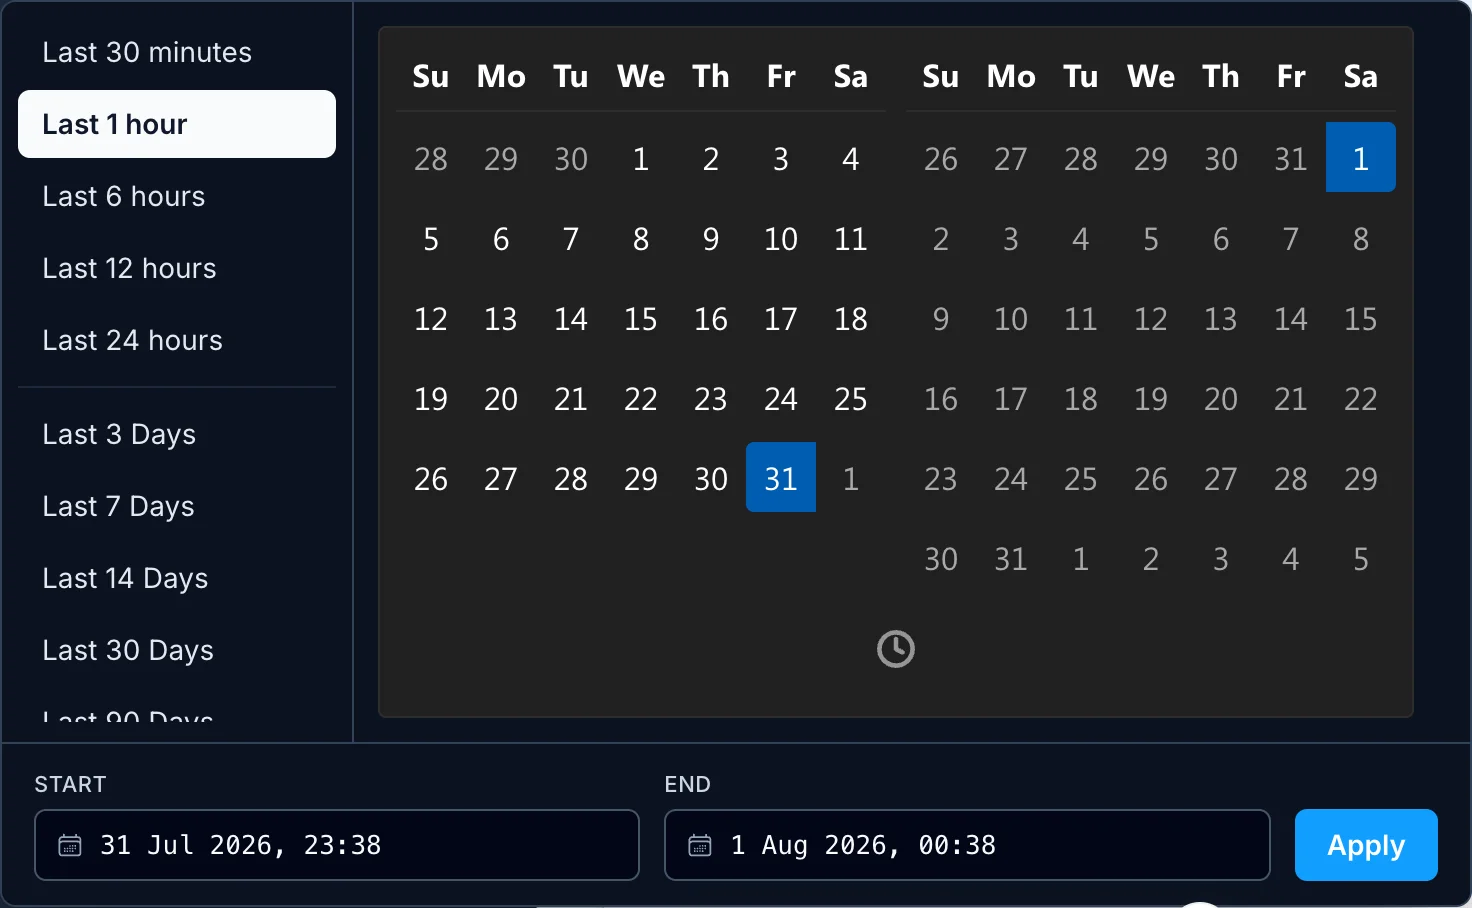
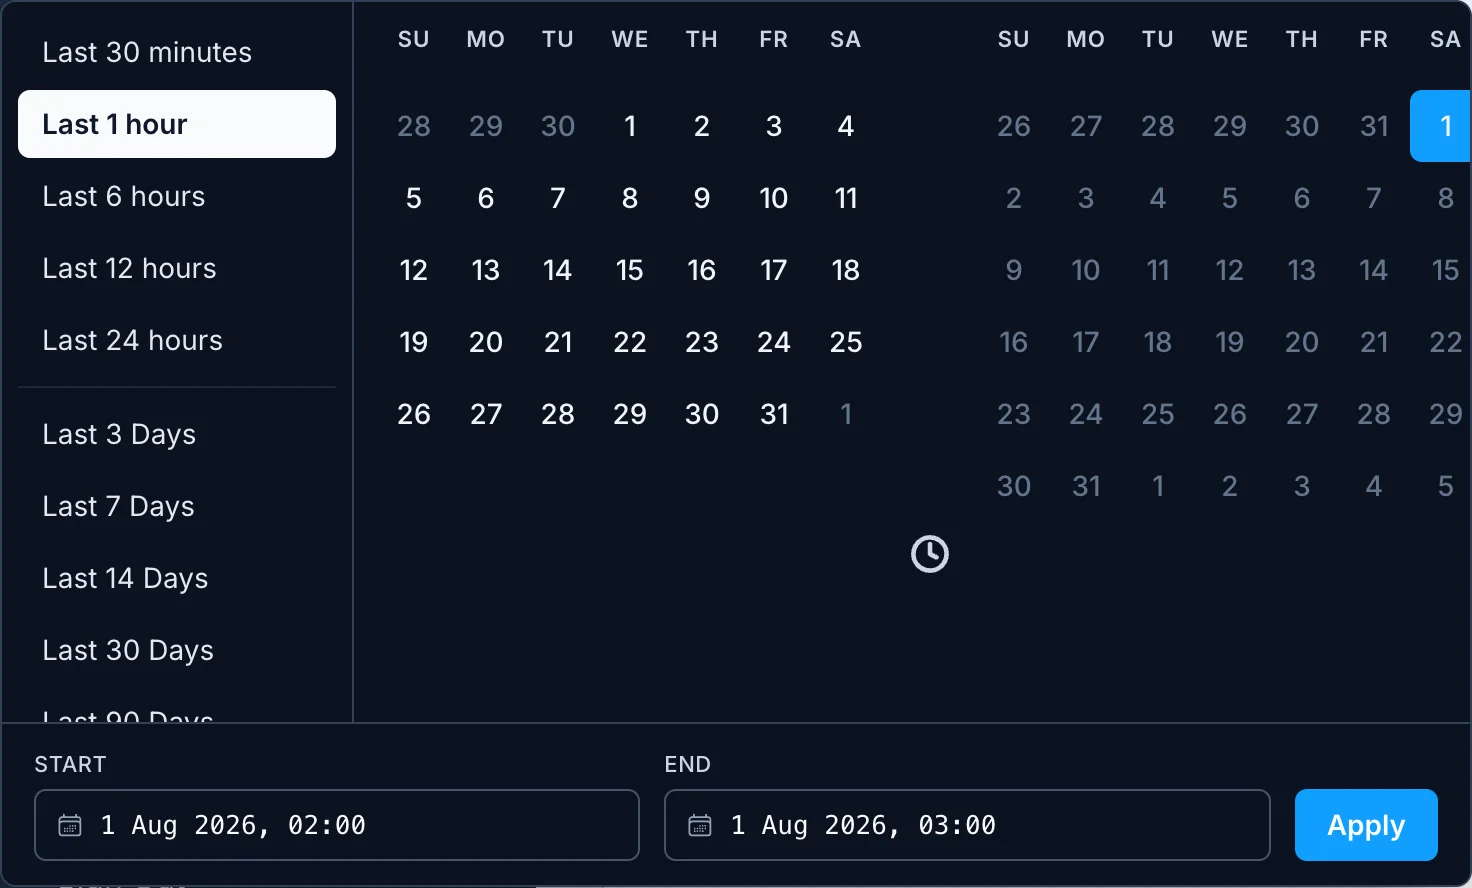
fix(ui): flush date picker calendar into one dark surface
Remove the nested VueDatePicker panel look so the calendar sits on the same popover background with no floating card margin.

diff --git a/src/components/DateRangePicker.vue b/src/components/DateRangePicker.vue
@@ -381,7 +381,7 @@ function presetButtonClass(active: boolean, disabled: boolean) {
             </div>
           </div>
 
-          <div class="date-range-calendar min-w-0 flex-1 p-2 md:p-3">
+          <div class="date-range-calendar min-w-0 flex-1">
             <VueDatePicker
               :key="isDark ? 'dark' : 'light'"
               :model-value="pickerRange"
@@ -435,7 +435,7 @@ function presetButtonClass(active: boolean, disabled: boolean) {
 </template>
 
 <style scoped>
-/* Shared surface tokens — contrast first (WCAG AA). One surface in dark mode. */
+/* Shared surface tokens — contrast first (WCAG AA). One flat surface; no nested calendar card. */
 .date-range-trigger[data-capgo-surface='light'],
 .date-range-popover[data-capgo-surface='light'] {
   --drp-bg: #ffffff;
@@ -475,7 +475,7 @@ function presetButtonClass(active: boolean, disabled: boolean) {
   --drp-preset-hover: #1e293b;
   --drp-preset-active-bg: #f8fafc;
   --drp-preset-active-text: #0f172a;
-  --drp-field-bg: #020617;
+  --drp-field-bg: #0b1220;
   --drp-field-border: #475569;
   --drp-shadow: 0 16px 48px -12px rgb(0 0 0 / 0.65);
   --drp-cal-text: #f1f5f9;
@@ -485,7 +485,7 @@ function presetButtonClass(active: boolean, disabled: boolean) {
   --drp-cal-icon: #cbd5e1;
   --drp-cal-between: rgb(17 158 255 / 0.28);
   --drp-cal-between-text: #f8fafc;
-  --drp-cal-input-bg: #020617;
+  --drp-cal-input-bg: #0b1220;
 }
 
 .date-range-trigger {
@@ -571,72 +571,99 @@ function presetButtonClass(active: boolean, disabled: boolean) {
 }
 
 .date-range-calendar {
+  /* Single surface: calendar paints on the popover bg, no nested card. */
   background: var(--drp-bg) !important;
+  padding: 0.5rem 0.75rem 0.25rem;
 }
 
-.date-range-calendar :deep(.dp__main) {
+.date-range-calendar :deep(.dp__main),
+.date-range-calendar :deep(.dp--menu),
+.date-range-calendar :deep(.dp__menu) {
   font-family: inherit;
-  background: transparent !important;
+  width: 100%;
+  min-width: 0 !important;
+  border-radius: 0 !important;
+  background: var(--drp-bg) !important;
   color: var(--drp-cal-text) !important;
+  box-shadow: none !important;
+  border: none !important;
 }
 
 .date-range-calendar :deep(.dp__theme_light),
-.date-range-calendar :deep(.dp__theme_dark) {
-  --dp-background-color: transparent;
+.date-range-calendar :deep(.dp__theme_dark),
+.date-range-calendar :deep(.dp--theme-light),
+.date-range-calendar :deep(.dp--theme-dark) {
+  /* Match popover exactly — never the library dark #212121 panel. */
+  --dp-background-color: var(--drp-bg);
   --dp-text-color: var(--drp-cal-text);
   --dp-hover-color: var(--drp-cal-hover);
   --dp-hover-text-color: var(--drp-cal-text);
   --dp-hover-icon-color: var(--drp-cal-icon);
   --dp-primary-color: var(--color-azure-500);
   --dp-primary-text-color: #ffffff;
-  --dp-secondary-color: var(--drp-border);
+  --dp-secondary-color: var(--drp-cal-muted);
   --dp-border-color: transparent;
   --dp-menu-border-color: transparent;
   --dp-border-color-hover: transparent;
+  --dp-border-color-focus: transparent;
   --dp-disabled-color: transparent;
   --dp-disabled-color-text: var(--drp-cal-muted);
-  --dp-scroll-bar-background: transparent;
+  --dp-scroll-bar-background: var(--drp-bg);
   --dp-scroll-bar-color: var(--drp-border);
   --dp-success-color: var(--color-azure-500);
   --dp-success-color-disabled: var(--drp-cal-muted);
   --dp-icon-color: var(--drp-cal-icon);
   --dp-danger-color: #f87171;
+  --dp-tooltip-color: var(--drp-bg);
   --dp-highlight-color: var(--drp-cal-between);
   --dp-range-between-dates-background-color: var(--drp-cal-between);
   --dp-range-between-dates-text-color: var(--drp-cal-between-text);
+  --dp-range-between-border-color: transparent;
   --dp-range-between-border-radius: 0;
+  --dp-menu-padding: 0;
+  --dp-calendar-wrap-padding: 0;
+  --dp-multi-calendars-spacing: 0.75rem;
+  --dp-row-margin: 0;
   --dp-cell-size: 36px;
   --dp-cell-padding: 2px;
-  --dp-row-margin: 0;
   --dp-month-year-row-height: 36px;
   --dp-month-year-row-button-size: 32px;
   --dp-button-height: 32px;
   --dp-font-size: 0.875rem;
+  --dp-border-radius: 0;
 }
 
 .date-range-calendar :deep(.dp__menu),
+.date-range-calendar :deep(.dp--menu),
 .date-range-calendar :deep(.dp__menu_inner),
+.date-range-calendar :deep(.dp--menu-inner),
 .date-range-calendar :deep(.dp__instance_calendar),
+.date-range-calendar :deep(.dp--instance-calendar),
 .date-range-calendar :deep(.dp__calendar),
+.date-range-calendar :deep(.dp--calendar),
 .date-range-calendar :deep(.dp__calendar_wrap),
 .date-range-calendar :deep(.dp__calendar_header),
+.date-range-calendar :deep(.dp--calendar-header),
 .date-range-calendar :deep(.dp__calendar_row),
+.date-range-calendar :deep(.dp--calendar-row),
 .date-range-calendar :deep(.dp__month_year_row),
 .date-range-calendar :deep(.dp__time_picker_inline_container),
+.date-range-calendar :deep(.dp--time-picker-inline-container),
 .date-range-calendar :deep(.dp--tp-wrap),
 .date-range-calendar :deep(.dp__overlay),
+.date-range-calendar :deep(.dp--overlay),
 .date-range-calendar :deep(.dp__overlay_container) {
-  background: transparent !important;
+  background: var(--drp-bg) !important;
   border: none !important;
   box-shadow: none !important;
   color: var(--drp-cal-text) !important;
+  border-radius: 0 !important;
+  margin: 0 !important;
+  padding: 0 !important;
 }
 
-.date-range-calendar :deep(.dp__menu) {
-  padding: 0;
-}
-
-.date-range-calendar :deep(.dp__calendar_header_item) {
+.date-range-calendar :deep(.dp__calendar_header_item),
+.date-range-calendar :deep(.dp--calendar-header-item) {
   font-size: 0.7rem;
   font-weight: 600;
   text-transform: uppercase;
@@ -644,30 +671,33 @@ function presetButtonClass(active: boolean, disabled: boolean) {
   color: var(--drp-cal-header) !important;
 }
 
-.date-range-calendar :deep(.dp__cell_inner) {
+.date-range-calendar :deep(.dp__cell_inner),
+.date-range-calendar :deep(.dp--cell-inner) {
   border-radius: 0.375rem;
   font-weight: 500;
   color: var(--drp-cal-text);
 }
 
 .date-range-calendar :deep(.dp__cell_offset),
-.date-range-calendar :deep(.dp__cell_disabled) {
+.date-range-calendar :deep(.dp__cell_disabled),
+.date-range-calendar :deep(.dp--cell-offset),
+.date-range-calendar :deep(.dp--cell-disabled) {
   color: var(--drp-cal-muted) !important;
 }
 
 .date-range-calendar :deep(.dp__range_start .dp__cell_inner),
 .date-range-calendar :deep(.dp__range_end .dp__cell_inner),
-.date-range-calendar :deep(.dp__active_date .dp__cell_inner) {
+.date-range-calendar :deep(.dp__active_date .dp__cell_inner),
+.date-range-calendar :deep(.dp--range-border-start .dp--cell-inner),
+.date-range-calendar :deep(.dp--range-border-end .dp--cell-inner),
+.date-range-calendar :deep(.dp--active .dp--cell-inner) {
   background: var(--color-azure-500) !important;
   color: #fff !important;
   font-weight: 600;
 }
 
-.date-range-calendar :deep(.dp__instance_calendar) {
-  padding: 0 0.25rem;
-}
-
-.date-range-calendar :deep(.dp__calendar_header_separator) {
+.date-range-calendar :deep(.dp__calendar_header_separator),
+.date-range-calendar :deep(.dp--calendar-header-separator) {
   display: none;
 }
 
@@ -677,18 +707,33 @@ function presetButtonClass(active: boolean, disabled: boolean) {
   color: var(--drp-cal-text) !important;
 }
 
-.date-range-calendar :deep(.dp__action_row) {
+.date-range-calendar :deep(.dp__action_row),
+.date-range-calendar :deep(.dp--action-row) {
   display: none;
 }
 
 .date-range-calendar :deep(.dp__time_display),
+.date-range-calendar :deep(.dp--time-display),
 .date-range-calendar :deep(.dp__input),
+.date-range-calendar :deep(.dp--input),
 .date-range-calendar :deep(.dp__time_input),
 .date-range-calendar :deep(.dp__pm_am_button),
-.date-range-calendar :deep(.dp__overlay) {
+.date-range-calendar :deep(.dp--pm-am-button),
+.date-range-calendar :deep(.dp__overlay),
+.date-range-calendar :deep(.dp--overlay) {
   background: var(--drp-cal-input-bg) !important;
   color: var(--drp-cal-text) !important;
   border-color: var(--drp-border) !important;
+}
+
+/* Second month sits on the same surface — subtle divider, no floating panel. */
+.date-range-calendar :deep(.dp__instance_calendar + .dp__instance_calendar),
+.date-range-calendar :deep(.dp--instance-calendar + .dp--instance-calendar),
+.date-range-calendar :deep(.dp__calendar_next),
+.date-range-calendar :deep(.dp--calendar-next) {
+  margin-inline-start: 0.75rem !important;
+  padding-inline-start: 0.75rem !important;
+  border-inline-start: 1px solid var(--drp-divider);
 }
 
 @media (prefers-reduced-motion: reduce) {
